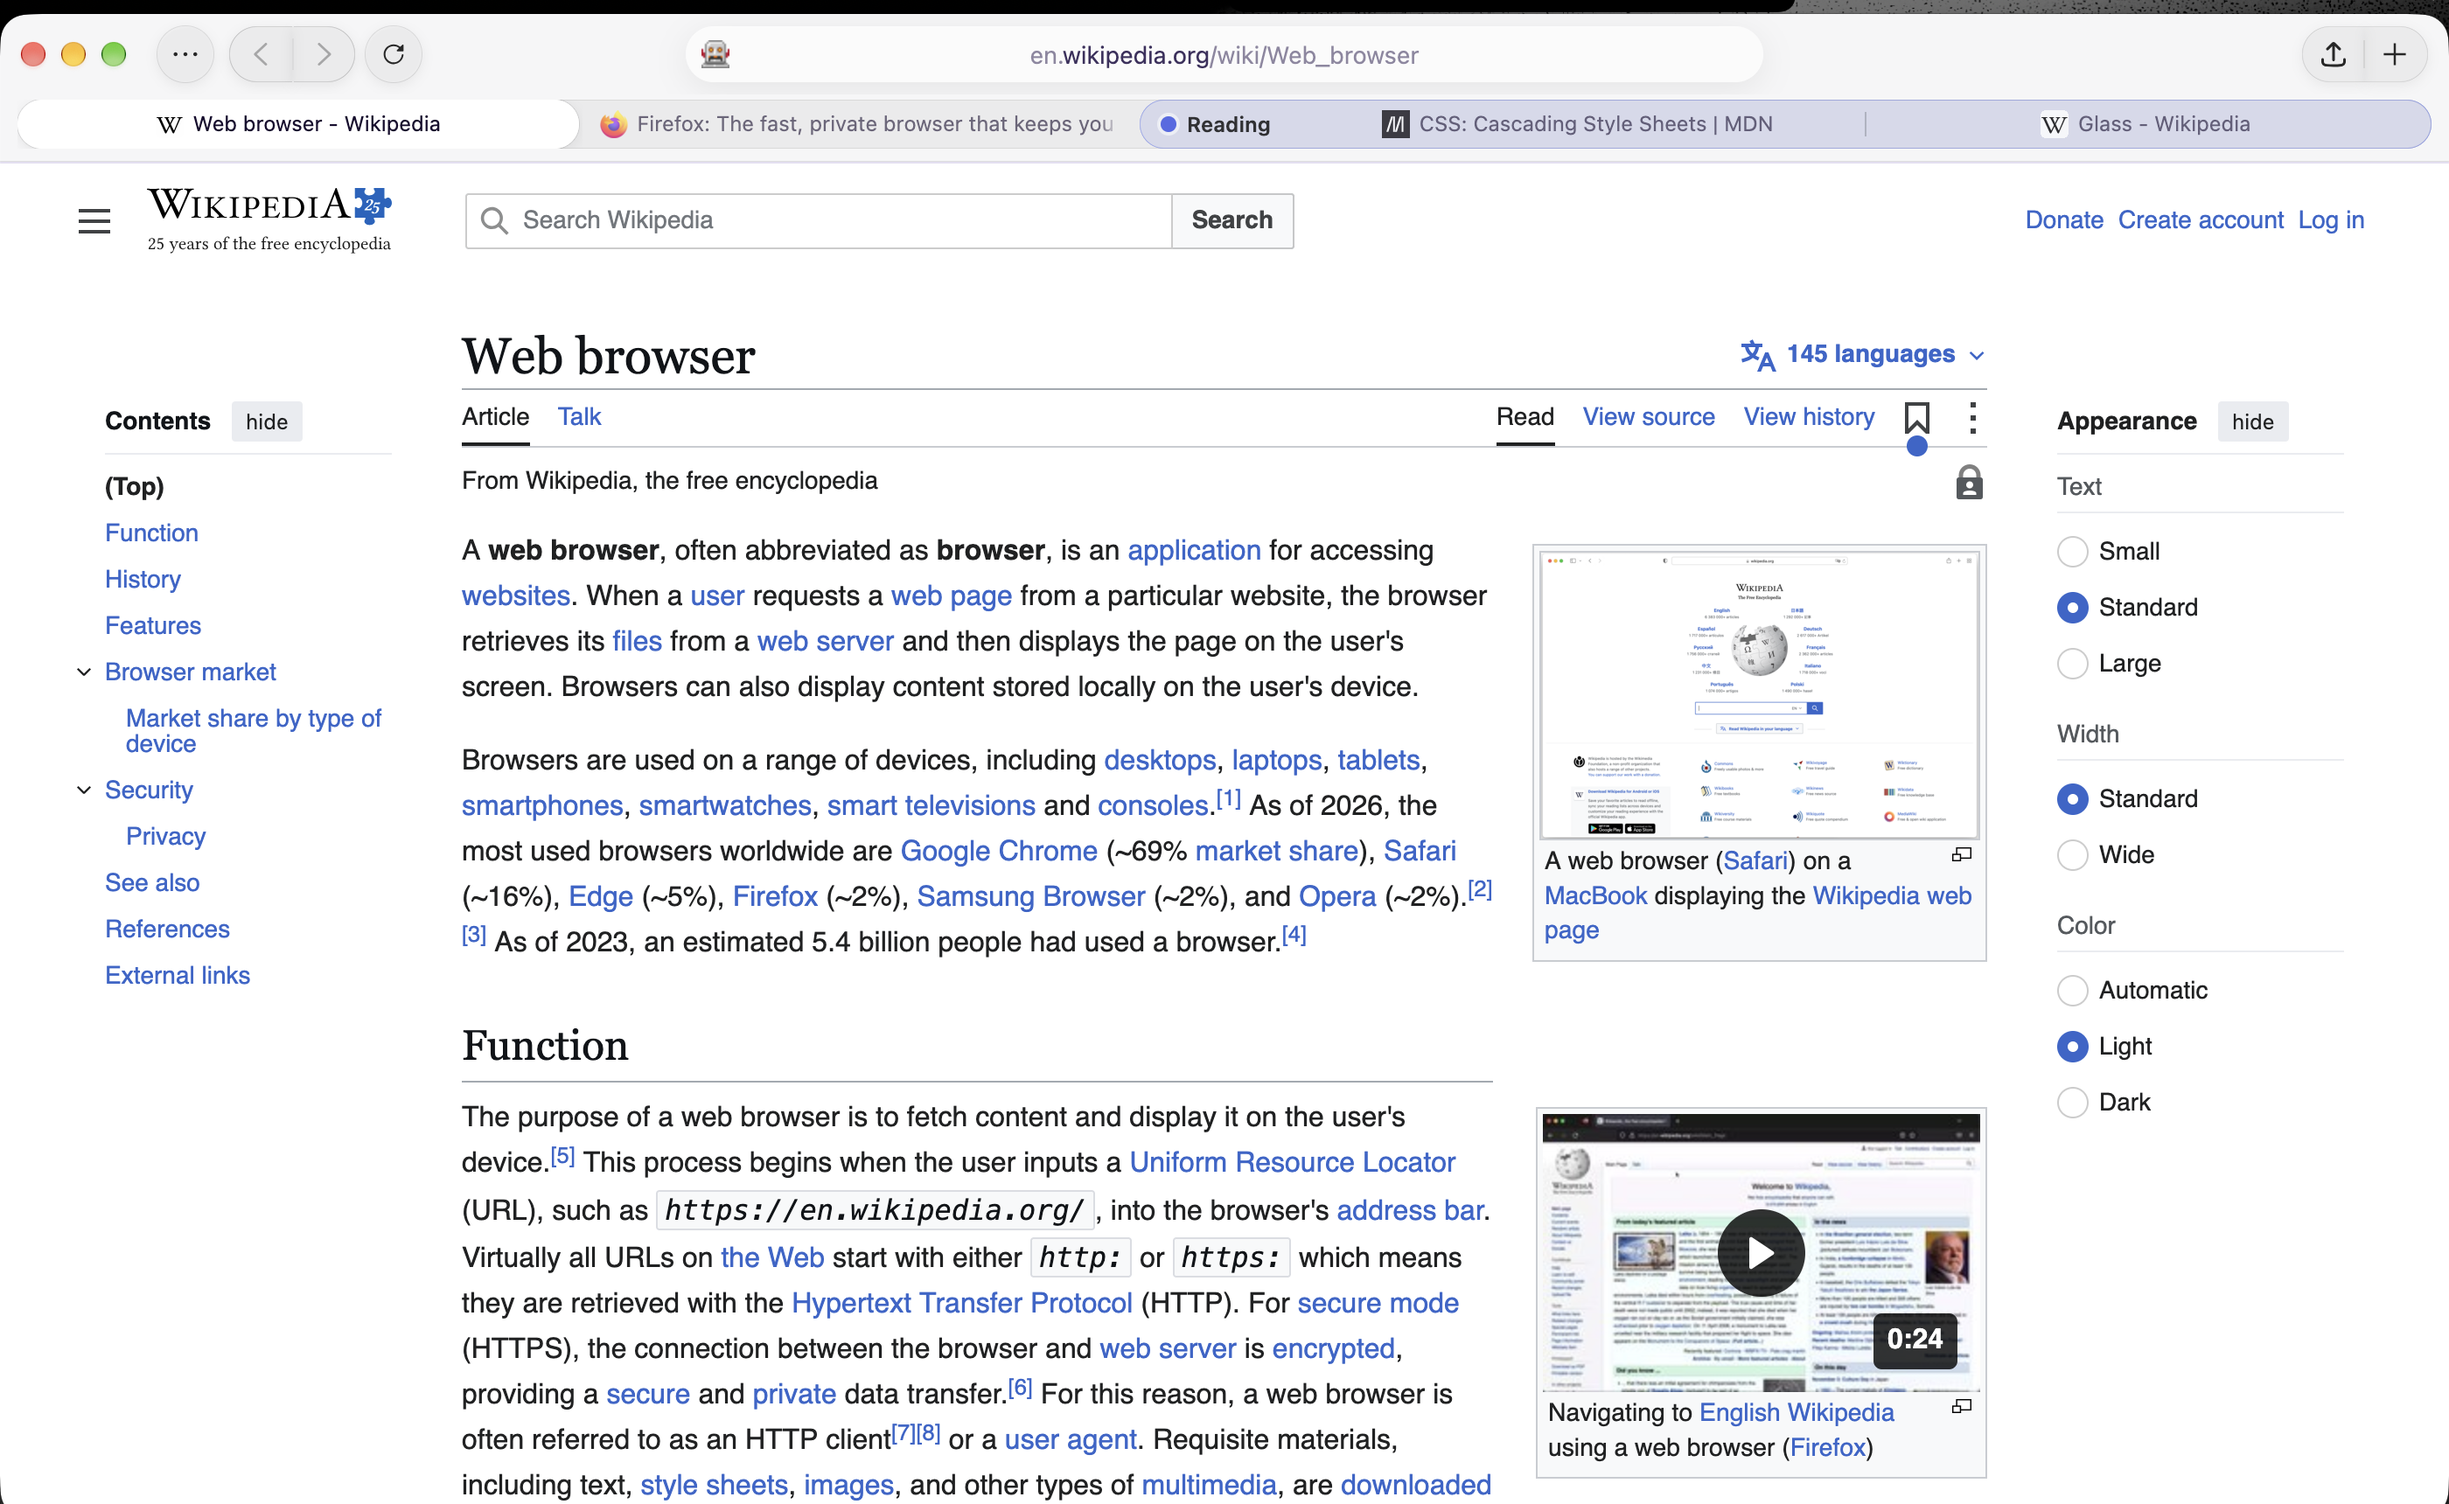
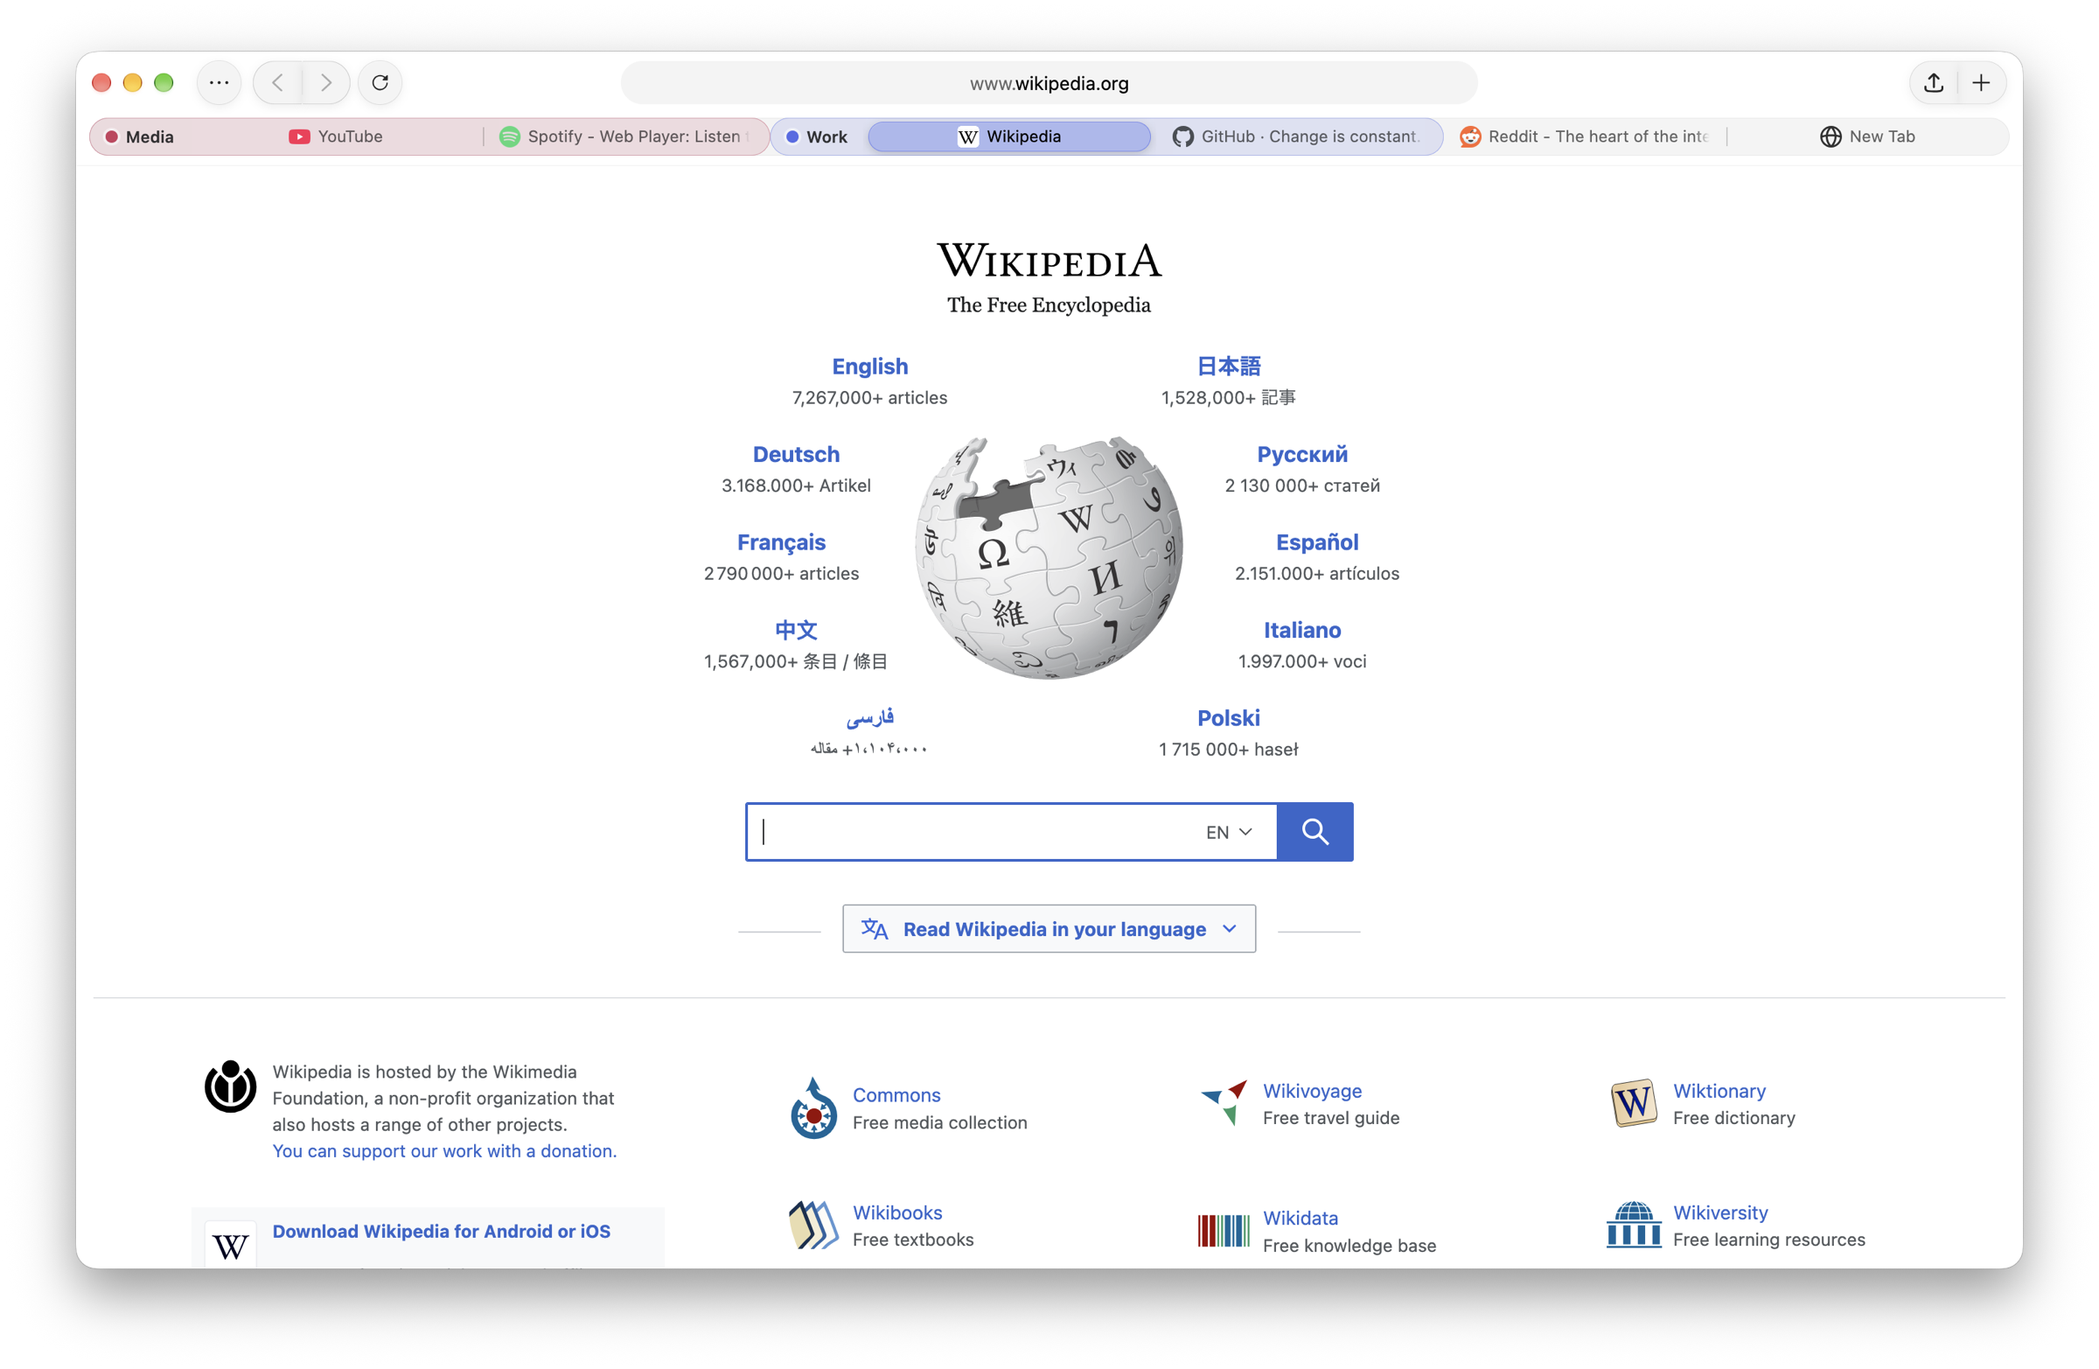
Update screenshots: home page, tabs, tab groups, light mode, find bar

diff --git a/README.md b/README.md
@@ -4,8 +4,19 @@ A Safari-inspired glass theme for Firefox: a floating centred address bar, pill-
 
 Tested on Firefox 161 (macOS and Windows).
 
-![Dark](screenshots/dark.png)
-![Light](screenshots/light.png)
+**Home page**
+![Home page](screenshots/home.png)
+
+**With tabs**
+![With tabs](screenshots/tabs.png)
+
+**With tab groups**
+![With tab groups](screenshots/groups.png)
+
+**Light mode**
+![Light mode](screenshots/light.png)
+
+**Find bar**
 ![Find bar](screenshots/find.png)
 
 ## Install
